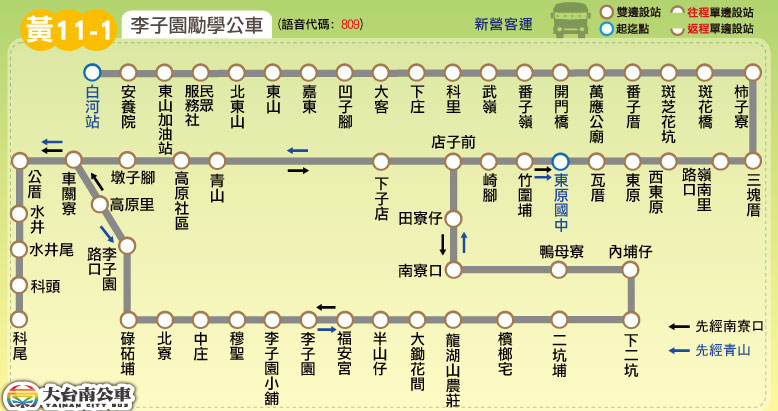
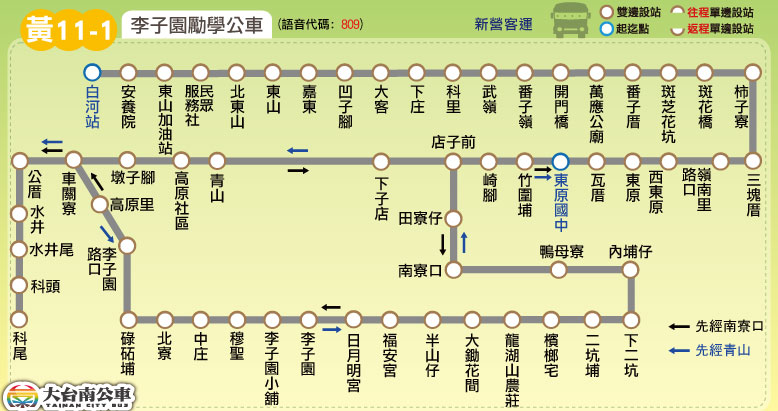
新增站位：棕幹線(增「護庇宮」)、黃11-1(增「日月明宮」)

Changed region(s): [[0.401, 0.7299, 0.7712, 0.9927]]

diff --git a/route/fare_and_time/yellow_11_1.js b/route/fare_and_time/yellow_11_1.js
@@ -11,7 +11,7 @@ yellow_11_1_interval_stop = [
 ["崎腳"], // 崎腳
 ["店子前","下子店","青山","高原社區","墩子腳","車關寮","公厝","水井","水井尾","科頭","科尾","高原里","李子園路口","碌砳埔"], // 青山
 ["北寮","中庄"], // 北寮
-["穆聖","李子園小舖","李子園","福安宮","半山仔","大鋤花間","龍湖山農莊"], // 李子園
+["穆聖","李子園小舖","李子園","日月明宮","福安宮","半山仔","大鋤花間","龍湖山農莊"], // 李子園
 ["檳榔宅"], // 檳榔宅
 ["二坑埔","下二坑","內埔仔"], // 二坑埔
 ["鴨母寮","南寮口","田寮仔"] // 南寮口

diff --git a/route/fare_and_time/brown.js b/route/fare_and_time/brown.js
@@ -2,7 +2,7 @@ brown_interval_name = ["新營","茄苳腳","鹽水","舊營","歡雅","田寮",
 brown_interval_stop = [
 ["新營站","臺南市農會","民治市政中心","南新國中","民生、新南里","太子路口","統聯客運"], // 新營
 ["茄苳腳","新營工業區","明達中學"], // 茄苳腳
-["竹圍尾","橋南里","鹽水","地政事務所","月津國小","鹽水壽園"], // 鹽水
+["竹圍尾","橋南里","護庇宮","鹽水","地政事務所","月津國小","鹽水壽園"], // 鹽水
 ["舊營"], // 舊營
 ["大莊里","歡雅","松子腳"], // 歡雅
 ["中洲寮","田寮"], // 田寮
